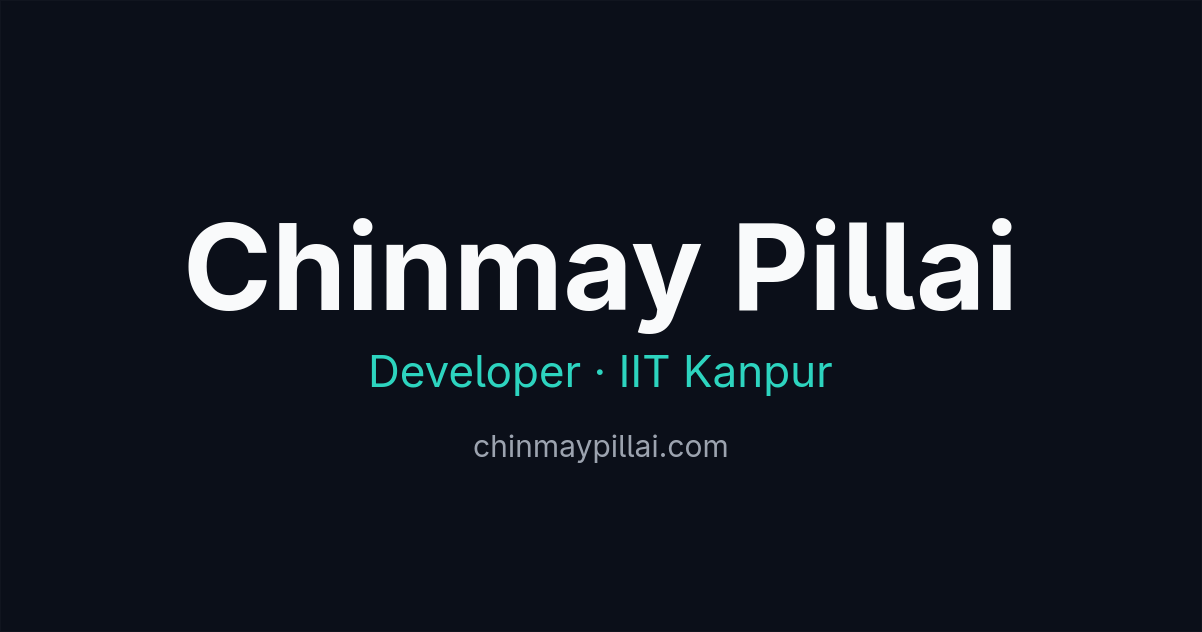
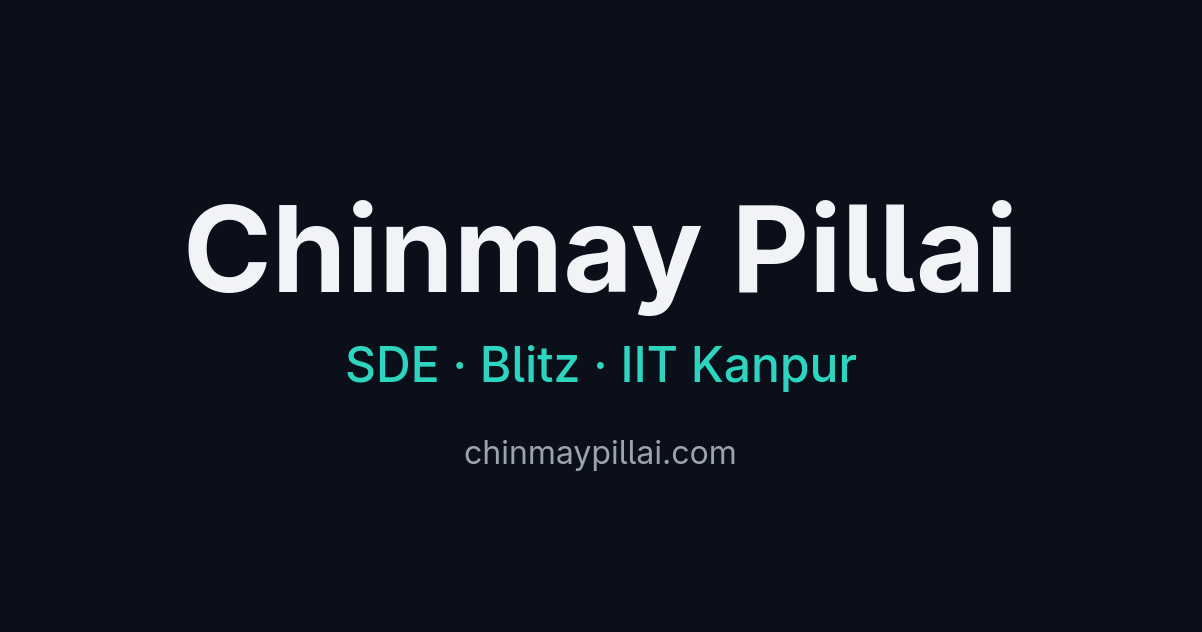
Update OpenGraph details and image

diff --git a/index.html b/index.html
@@ -3,9 +3,9 @@
   <head>
     <meta charset="UTF-8" />
     <meta name="viewport" content="width=device-width, initial-scale=1.0" />
-    <title>Chinmay Pillai — Developer · IIT Kanpur</title>
-    <meta name="description" content="Portfolio of Chinmay Pillai — developer from IIT Kanpur working on Agentic AI, Cloud, DevOps, and Full-Stack." />
-    <meta name="keywords" content="chinmay pillai, chinmaypillai, portfolio, IIT Kanpur, IITK, developer, software engineer, agentic ai, devops, cloud, blockchain" />
+    <title>Chinmay Pillai — SDE · Blitz · IIT Kanpur</title>
+    <meta name="description" content="Portfolio of Chinmay Pillai — SDE from IIT Kanpur working on Agentic AI, ML, Cloud, DevOps, and Backend." />
+    <meta name="keywords" content="chinmay pillai, chinmaypillai, portfolio, IIT Kanpur, IITK, developer, software engineer, sde, agentic ai, devops, cloud, blockchain, backend" />
     <meta name="author" content="Chinmay Pillai">
     <meta name="theme-color" content="#0B0F19">
     <link rel="canonical" href="https://www.chinmaypillai.com/">
@@ -21,21 +21,21 @@
     <!-- Open Graph -->
     <meta property="og:type" content="website">
     <meta property="og:site_name" content="Chinmay Pillai">
-    <meta property="og:title" content="Chinmay Pillai — Developer · IIT Kanpur">
-    <meta property="og:description" content="Portfolio of Chinmay Pillai — developer from IIT Kanpur working on Agentic AI, Cloud, DevOps, and Full-Stack.">
+    <meta property="og:title" content="Chinmay Pillai — SDE · Blitz · IIT Kanpur">
+    <meta property="og:description" content="Portfolio of Chinmay Pillai — SDE from IIT Kanpur working on Agentic AI, ML, Cloud, DevOps, and Backend.">
     <meta property="og:url" content="https://www.chinmaypillai.com/">
     <meta property="og:image" content="https://www.chinmaypillai.com/og.png">
     <meta property="og:image:width" content="1200">
     <meta property="og:image:height" content="630">
-    <meta property="og:image:alt" content="Chinmay Pillai — Developer · IIT Kanpur">
+    <meta property="og:image:alt" content="Chinmay Pillai — SDE · Blitz · IIT Kanpur">
     <meta property="og:locale" content="en_US">
 
     <!-- Twitter Card -->
     <meta name="twitter:card" content="summary_large_image">
     <meta name="twitter:site" content="@ChinmayPillai">
     <meta name="twitter:creator" content="@ChinmayPillai">
-    <meta name="twitter:title" content="Chinmay Pillai — Developer · IIT Kanpur">
-    <meta name="twitter:description" content="Portfolio of Chinmay Pillai — developer from IIT Kanpur working on Agentic AI, Cloud, DevOps, and Full-Stack.">
+    <meta name="twitter:title" content="Chinmay Pillai — SDE · Blitz · IIT Kanpur">
+    <meta name="twitter:description" content="Portfolio of Chinmay Pillai — SDE from IIT Kanpur working on Agentic AI, ML, Cloud, DevOps, and Backend.">
     <meta name="twitter:image" content="https://www.chinmaypillai.com/og.png">
 
     <!-- Structured data (Person) -->
